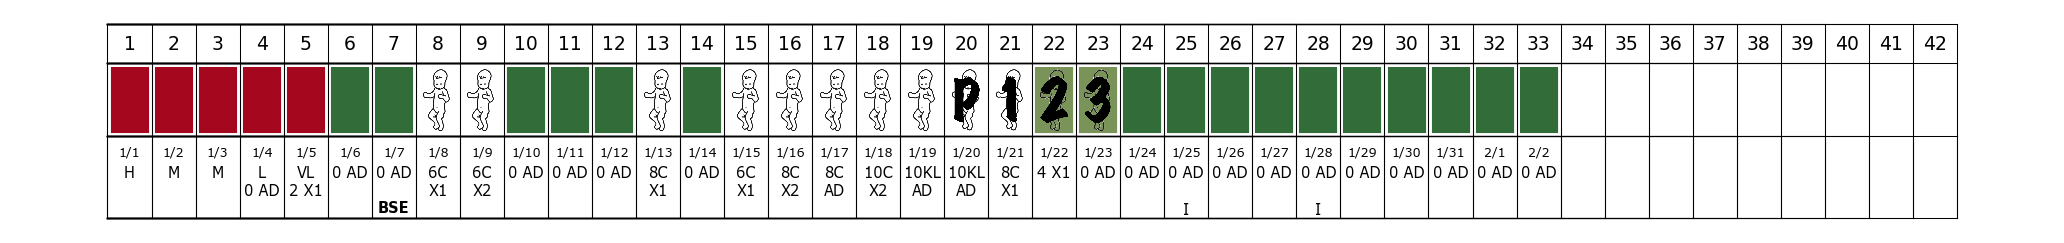
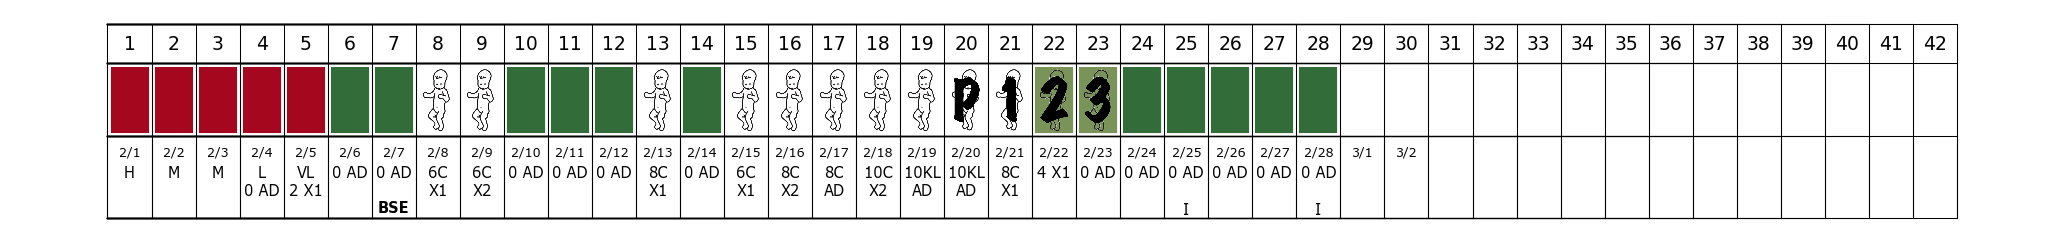
added combineCharts.py and directories

Changed region(s): [[0.6512, 0.2593, 0.7752, 0.5473], [0.5581, 0.6049, 0.7752, 0.749], [0.062, 0.6049, 0.124, 0.6626]]

diff --git a/combineCharts.py b/combineCharts.py
@@ -1,0 +1,88 @@
+#!/usr/bin/env python
+# coding: utf-8
+
+# Run combineCharts.py to combine multiple single cycle charts into a full chart 
+# (the group of 6 cycles you are used to seeing on paper charts). 
+# Move or copy charts you wish to include to the "to_combine/" directory.
+
+import numpy as np
+from pathlib import Path
+from PIL import Image
+
+# Define paths
+charts_path = Path("/Users/gerb5/vscode-projects/nfp-creighton-model-chart/Charts/")
+combine_path = charts_path / "to_combine"
+cropped_path = charts_path / "cropped"
+complete_path = charts_path / "complete"
+
+# Ensure directories exist
+combine_path.mkdir(exist_ok=True)
+cropped_path.mkdir(exist_ok=True)
+complete_path.mkdir(exist_ok=True)
+
+list_images = list(combine_path.glob("*.png"))
+
+# Check if images exist
+if not list_images:
+    print("No images found in the to_combine/ directory. Please add images and retry.")
+    exit()
+
+# Load images
+images = [Image.open(img) for img in list_images]
+
+# Crop images
+shave_top, shave_bottom = 62, 25  # pixels to shave
+cropped = []
+
+for idx, img in enumerate(images):
+    w, h = img.size
+    crop_box = (0, shave_top if idx > 0 else 0, w, h - shave_bottom)
+    cropped_name = cropped_path / list_images[idx].name  # Keep original filename
+    img.crop(crop_box).save(cropped_name)
+    cropped.append(cropped_name)
+
+# Reload cropped images
+images = [Image.open(img) for img in cropped]
+
+# Resize to smallest width while maintaining aspect ratio
+min_shape = min((img.size for img in images), key=lambda s: s[0] * s[1])
+min_width = min(img.size[0] for img in images)
+images_resized = [img.resize((min_width, int(img.size[1] * (min_width / img.size[0])))) for img in images]
+
+##
+# Use the first image's dimensions as the reference size
+header_image = images[0]  # Keep the first image as header
+header_width, header_height = header_image.size
+
+# Resize all other images to match the header width while maintaining aspect ratio
+body_images = [
+    img.resize((header_width, int(img.size[1] * (header_width / img.size[0]))), Image.Resampling.LANCZOS)
+    for img in images[1:]  # Exclude header from resizing
+]
+
+# Stack images together (header first, then body images)
+imgs_comb = np.vstack([np.asarray(header_image)] + [np.asarray(img) for img in body_images])
+
+# Convert back to Image object
+imgs_comb = Image.fromarray(imgs_comb)
+
+# Create a proper filename
+output_name = charts_path / complete_path / f"{list_images[0].stem}_to_{list_images[-1].stem}.png"
+
+# Save the final combined image
+imgs_comb.save(output_name)
+
+print(f"Saved as {output_name}")
+
+# Function to delete all files in a directory
+def clear_directory(directory: Path):
+    for file in directory.glob("*"):
+        file.unlink()  # Remove file
+    print(f"Cleared {directory}")
+
+# Remove all files from temp directories after processing
+# Comment out the next two lines for troubleshooting
+clear_directory(combine_path)
+clear_directory(cropped_path)
+
+print("Done.")

diff --git a/plotChart.py b/plotChart.py
@@ -8,7 +8,7 @@ import pandas as pd
 import numpy as np
 from PIL import Image  # Use Pillow for image handling
 
-file_name = 'example_month_1'  # Example date, replace with the dates you want to process
+file_name = 'example_month_2'  # Example date, replace with the dates you want to process
 file_path = os.path.join('/Users/gerb5/vscode-projects/nfp-creighton-model-chart/data', f'{file_name}.xlsx')
 
 # Load the Excel file into a DataFrame
